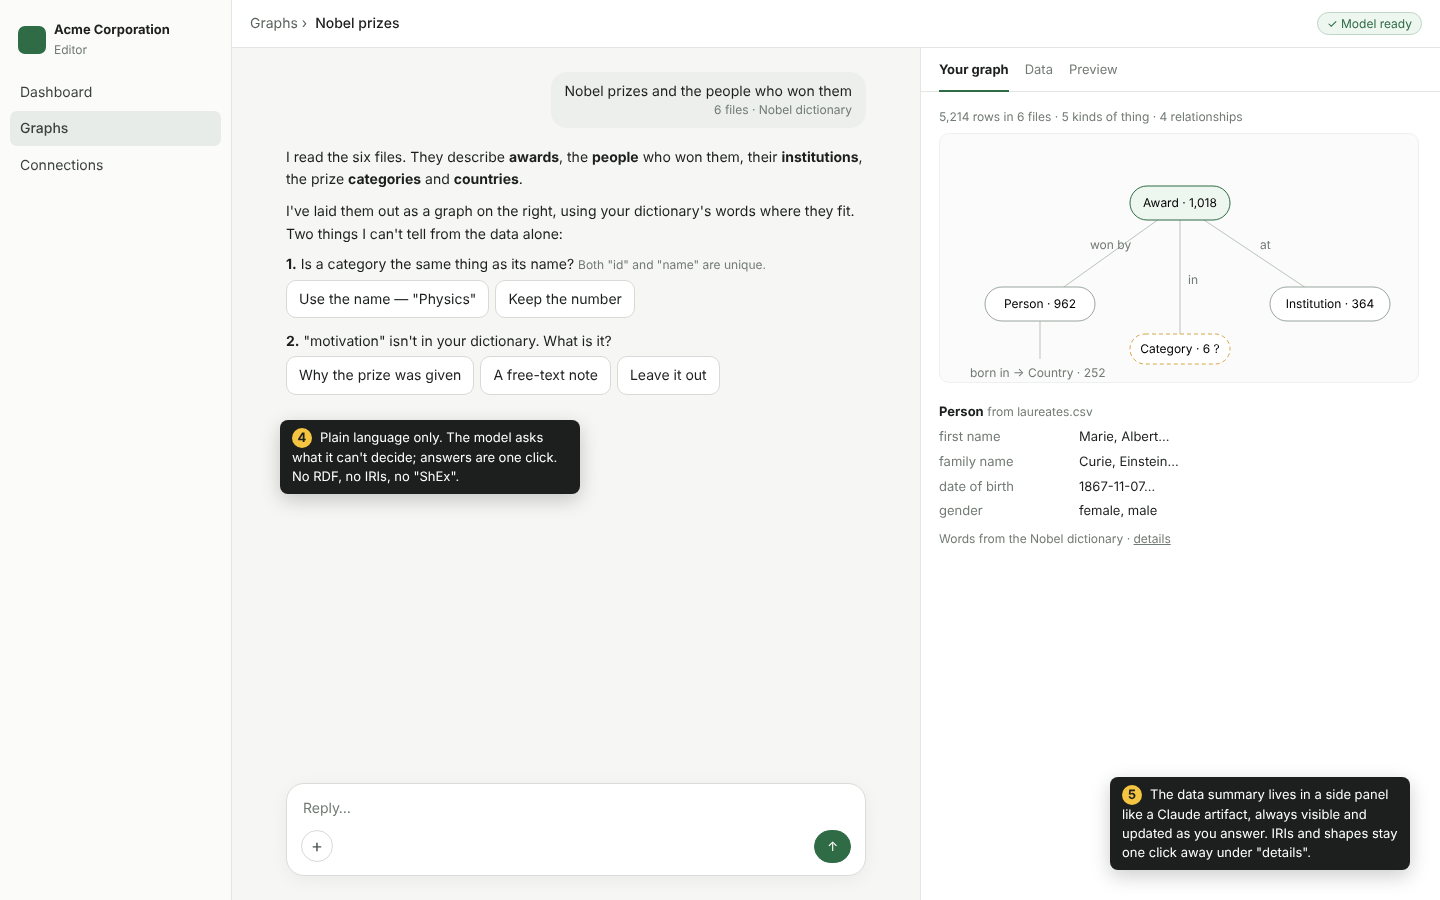
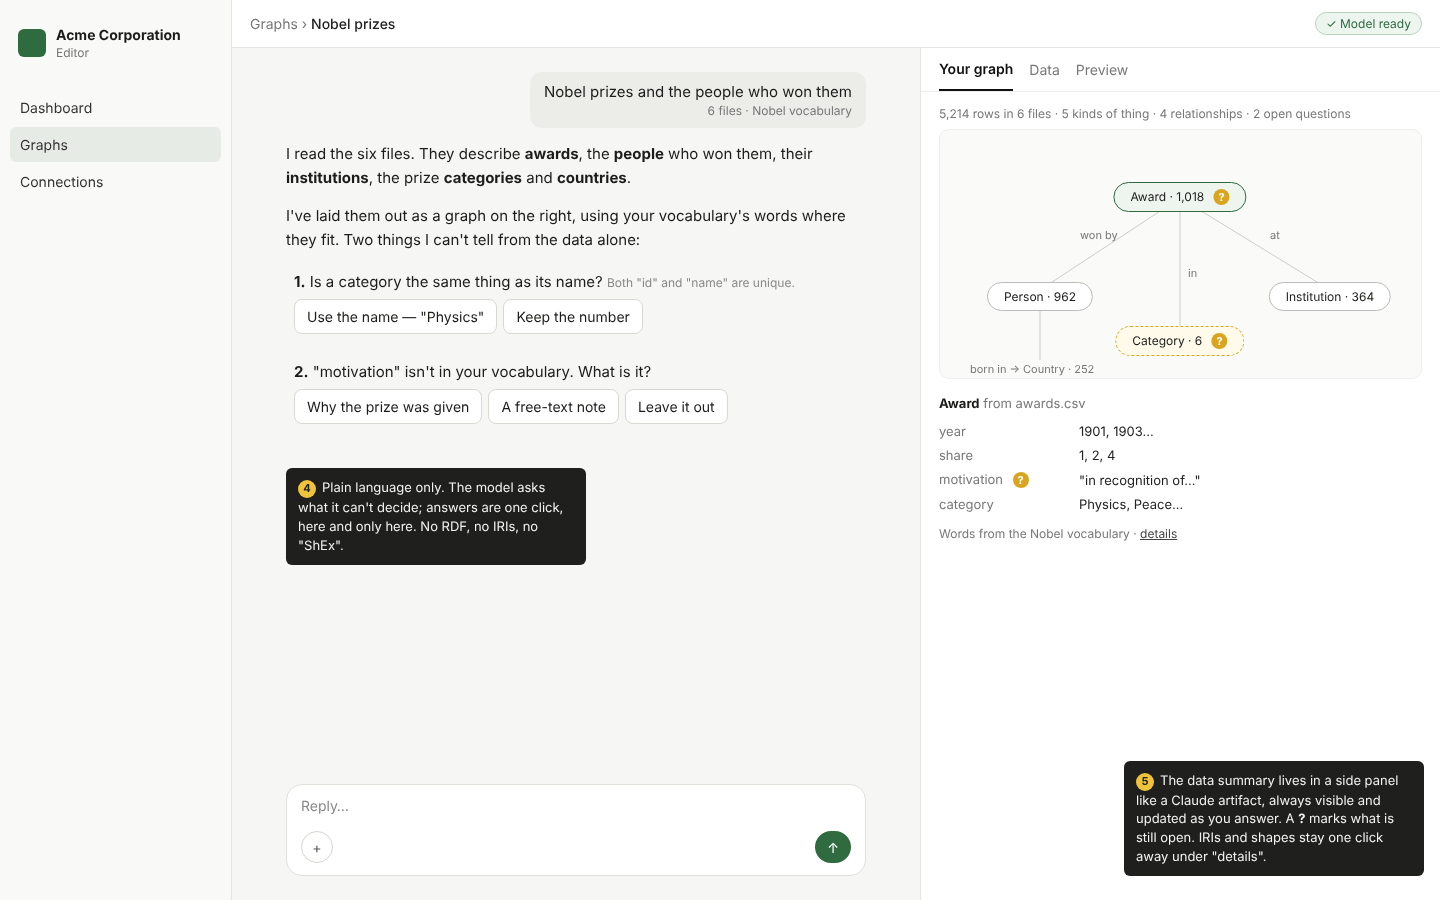
docs(design): a question has one door, the conversation; the graph marks it
Claude-Session: https://claude.ai/code/session_01UehtreJY5kXUJpiKCCdSLU

diff --git a/docs/design/assistant/question-on-graph.html b/docs/design/assistant/question-on-graph.html
@@ -1,0 +1,63 @@
+<!doctype html><html><head><meta charset="utf-8"><style>*{box-sizing:border-box}body{margin:0;width:1440px;height:900px;font-family:Inter,"Helvetica Neue",Arial,sans-serif;background:#f6f6f4;color:#1c1c1a;display:flex;font-size:14px}
+.side{width:232px;background:#f9f9f7;border-right:1px solid #e5e5e1;padding:18px 10px}
+.org{display:flex;gap:10px;align-items:center;padding:8px;margin-bottom:22px}.logo{width:28px;height:28px;border-radius:6px;background:#2f6b3f}
+.org b{display:block}.org span{font-size:12px;color:#777}
+.nav{padding:9px 10px;border-radius:6px;color:#333;margin-bottom:2px}.nav.on{background:#e7ebe6}
+.main{flex:1;display:flex;flex-direction:column;position:relative}
+.top{height:48px;border-bottom:1px solid #e5e5e1;display:flex;align-items:center;justify-content:space-between;padding:0 18px;background:#fff}
+.crumb{color:#777}.crumb b{color:#222;font-weight:500}
+.badge{font-size:12px;color:#2f6b3f;border:1px solid #b9d3bf;background:#edf5ef;border-radius:999px;padding:3px 10px}
+.cols{flex:1;display:flex}
+.chat{flex:1;position:relative;padding:24px 54px}
+.panel{width:520px;background:#fff;border-left:1px solid #e5e5e1;position:relative}
+.you{margin-left:auto;width:fit-content;background:#ecece8;border-radius:12px;padding:10px 14px;text-align:right;font-size:15px}
+.you small{display:block;font-size:12px;color:#777;margin-top:2px}
+p{line-height:1.6;font-size:15px;margin:14px 0}
+.q{margin:10px 0 0;font-size:15px;padding:6px 8px;border-radius:8px}.q.lit{background:#fff7dc;box-shadow:0 0 0 1px #f0d68a}
+.q small{color:#888;font-size:12px}
+.opts{display:flex;gap:6px;margin:8px 0 6px}.opt{border:1px solid #d9d9d4;background:#fff;border-radius:8px;padding:8px 12px;font-size:14px}
+.comp{position:absolute;left:54px;right:54px;bottom:24px;background:#fff;border:1px solid #e1e1dc;border-radius:16px;padding:12px 14px;height:92px}
+.comp .ph{color:#888}.plus{position:absolute;left:14px;bottom:12px;width:32px;height:32px;border:1px solid #d5d5d0;border-radius:50%;display:flex;align-items:center;justify-content:center;color:#555}
+.send{position:absolute;right:14px;bottom:12px;width:36px;height:32px;border-radius:999px;background:#2f6b3f;color:#fff;display:flex;align-items:center;justify-content:center}
+.tabs{display:flex;gap:16px;padding:0 18px;border-bottom:1px solid #eee;height:44px;align-items:center}.tabs span{color:#777;padding:12px 0}.tabs .on{color:#111;font-weight:600;border-bottom:2px solid #111}
+.sum{font-size:12px;color:#777;padding:14px 18px 8px}
+.g{margin:0 18px;height:250px;border:1px solid #eee;border-radius:10px;background:#fafaf8;position:relative}
+.node{position:absolute;border:1px solid #bbb;background:#fff;border-radius:999px;padding:6px 16px;font-size:12px;transform:translateX(-50%);white-space:nowrap}
+.node.focus{border-color:#2f6b3f;background:#eef5ef}.node.open{border:1px dashed #d9a520;background:#fffaea}
+.qm{display:inline-flex;margin-left:6px;width:16px;height:16px;border-radius:50%;background:#d9a520;color:#fff;font-size:11px;font-weight:700;align-items:center;justify-content:center}
+svg{position:absolute;inset:0}.el{position:absolute;font-size:11px;color:#777}
+.fields{padding:16px 18px;font-size:13px}.fields b{font-size:13px}.fields table{margin-top:8px;border-collapse:collapse}.fields td{padding:4px 0;color:#777;width:140px}.fields td+td{color:#222;width:auto}
+.foot{font-size:12px;color:#777;margin-top:10px}.foot u{color:#444}
+.note{position:absolute;width:300px;background:#1f1f1d;color:#f3f3f0;font-size:13px;line-height:1.45;border-radius:6px;padding:10px 12px;z-index:5}
+.n{display:inline-flex;width:18px;height:18px;border-radius:50%;background:#f0c43a;color:#222;font-size:11px;font-weight:700;align-items:center;justify-content:center;margin-right:6px}
+.cursor{position:absolute;font-size:18px}</style></head><body>
+<div class="side"><div class="org"><div class="logo"></div><div><b>Acme Corporation</b><span>Editor</span></div></div>
+<div class="nav">Dashboard</div><div class="nav on">Graphs</div><div class="nav">Connections</div></div>
+<div class="main"><div class="top"><div class="crumb">Graphs › <b>Nobel prizes</b></div><div class="badge">✓ Model ready</div></div>
+<div class="cols"><div class="chat">
+<div class="you">Nobel prizes and the people who won them<small>6 files · Nobel vocabulary</small></div>
+<p>I read the six files. They describe <b>awards</b>, the <b>people</b> who won them, their <b>institutions</b>, the prize <b>categories</b> and <b>countries</b>.</p>
+<p>I've laid them out as a graph on the right, using your vocabulary's words where they fit. Two things I can't tell from the data alone:</p>
+<div class="q lit"><b>1.</b> Is a category the same thing as its name? <small>Both "id" and "name" are unique.</small>
+<div class="opts"><span class="opt">Use the name — "Physics"</span><span class="opt">Keep the number</span></div></div>
+<div class="q"><b>2.</b> "motivation" isn't in your vocabulary. What is it?
+<div class="opts"><span class="opt">Why the prize was given</span><span class="opt">A free-text note</span><span class="opt">Leave it out</span></div></div>
+<div class="comp"><span class="ph">Reply…</span><div class="plus">+</div><div class="send">↑</div></div>
+<div class="note" style="left:54px;top:420px"><span class="n">4</span>The question lights up where it was asked. It is answered here, the one door; the graph only says where it is.</div>
+</div>
+<div class="panel"><div class="tabs"><span class="on">Your graph</span><span>Data</span><span>Preview</span></div>
+<div class="sum">5,214 rows in 6 files · 5 kinds of thing · 4 relationships · 2 open questions</div>
+<div class="g"><svg width="482" height="250"><g stroke="#ccc"><line x1="240" y1="68" x2="100" y2="160"/><line x1="240" y1="68" x2="240" y2="205"/><line x1="240" y1="68" x2="390" y2="160"/><line x1="100" y1="178" x2="100" y2="230"/></g></svg>
+<div class="node focus" style="left:240px;top:52px">Award · 1,018 <span class="qm">?</span></div>
+<div class="node" style="left:100px;top:152px">Person · 962</div>
+<div class="node" style="left:390px;top:152px">Institution · 364</div>
+<div class="node open" style="left:240px;top:196px">Category · 6 <span class="qm">?</span></div>
+<div class="el" style="left:140px;top:98px">won by</div><div class="el" style="left:248px;top:136px">in</div><div class="el" style="left:330px;top:98px">at</div>
+<div class="el" style="left:30px;top:232px">born in → Country · 252</div>
+<div class="cursor" style="left:282px;top:204px">↖</div>
+</div>
+<div class="fields"><b>Award</b> <span style="color:#777">from awards.csv</span>
+<table><tr><td>year</td><td>1901, 1903…</td></tr><tr><td>share</td><td>1, 2, 4</td></tr><tr><td>motivation <span class="qm">?</span></td><td>"in recognition of…"</td></tr><tr><td>category</td><td>Physics, Peace…</td></tr></table>
+<div class="foot">Words from the Nobel vocabulary · <u>details</u></div></div>
+<div class="note" style="right:16px;bottom:24px"><span class="n">5</span>Click a <b>?</b> on the graph: the conversation scrolls to its question. No popover, no second set of options. Answered, the <b>?</b> goes and the graph and preview change.</div>
+</div></div></div></body></html>

diff --git a/docs/design/assistant/panel.html b/docs/design/assistant/panel.html
@@ -1,0 +1,63 @@
+<!doctype html><html><head><meta charset="utf-8"><style>*{box-sizing:border-box}body{margin:0;width:1440px;height:900px;font-family:Inter,"Helvetica Neue",Arial,sans-serif;background:#f6f6f4;color:#1c1c1a;display:flex;font-size:14px}
+.side{width:232px;background:#f9f9f7;border-right:1px solid #e5e5e1;padding:18px 10px}
+.org{display:flex;gap:10px;align-items:center;padding:8px;margin-bottom:22px}.logo{width:28px;height:28px;border-radius:6px;background:#2f6b3f}
+.org b{display:block}.org span{font-size:12px;color:#777}
+.nav{padding:9px 10px;border-radius:6px;color:#333;margin-bottom:2px}.nav.on{background:#e7ebe6}
+.main{flex:1;display:flex;flex-direction:column;position:relative}
+.top{height:48px;border-bottom:1px solid #e5e5e1;display:flex;align-items:center;justify-content:space-between;padding:0 18px;background:#fff}
+.crumb{color:#777}.crumb b{color:#222;font-weight:500}
+.badge{font-size:12px;color:#2f6b3f;border:1px solid #b9d3bf;background:#edf5ef;border-radius:999px;padding:3px 10px}
+.cols{flex:1;display:flex}
+.chat{flex:1;position:relative;padding:24px 54px}
+.panel{width:520px;background:#fff;border-left:1px solid #e5e5e1;position:relative}
+.you{margin-left:auto;width:fit-content;background:#ecece8;border-radius:12px;padding:10px 14px;text-align:right;font-size:15px}
+.you small{display:block;font-size:12px;color:#777;margin-top:2px}
+p{line-height:1.6;font-size:15px;margin:14px 0}
+.q{margin:10px 0 0;font-size:15px;padding:6px 8px;border-radius:8px}.q.lit{background:#fff7dc;box-shadow:0 0 0 1px #f0d68a}
+.q small{color:#888;font-size:12px}
+.opts{display:flex;gap:6px;margin:8px 0 6px}.opt{border:1px solid #d9d9d4;background:#fff;border-radius:8px;padding:8px 12px;font-size:14px}
+.comp{position:absolute;left:54px;right:54px;bottom:24px;background:#fff;border:1px solid #e1e1dc;border-radius:16px;padding:12px 14px;height:92px}
+.comp .ph{color:#888}.plus{position:absolute;left:14px;bottom:12px;width:32px;height:32px;border:1px solid #d5d5d0;border-radius:50%;display:flex;align-items:center;justify-content:center;color:#555}
+.send{position:absolute;right:14px;bottom:12px;width:36px;height:32px;border-radius:999px;background:#2f6b3f;color:#fff;display:flex;align-items:center;justify-content:center}
+.tabs{display:flex;gap:16px;padding:0 18px;border-bottom:1px solid #eee;height:44px;align-items:center}.tabs span{color:#777;padding:12px 0}.tabs .on{color:#111;font-weight:600;border-bottom:2px solid #111}
+.sum{font-size:12px;color:#777;padding:14px 18px 8px}
+.g{margin:0 18px;height:250px;border:1px solid #eee;border-radius:10px;background:#fafaf8;position:relative}
+.node{position:absolute;border:1px solid #bbb;background:#fff;border-radius:999px;padding:6px 16px;font-size:12px;transform:translateX(-50%);white-space:nowrap}
+.node.focus{border-color:#2f6b3f;background:#eef5ef}.node.open{border:1px dashed #d9a520;background:#fffaea}
+.qm{display:inline-flex;margin-left:6px;width:16px;height:16px;border-radius:50%;background:#d9a520;color:#fff;font-size:11px;font-weight:700;align-items:center;justify-content:center}
+svg{position:absolute;inset:0}.el{position:absolute;font-size:11px;color:#777}
+.fields{padding:16px 18px;font-size:13px}.fields b{font-size:13px}.fields table{margin-top:8px;border-collapse:collapse}.fields td{padding:4px 0;color:#777;width:140px}.fields td+td{color:#222;width:auto}
+.foot{font-size:12px;color:#777;margin-top:10px}.foot u{color:#444}
+.note{position:absolute;width:300px;background:#1f1f1d;color:#f3f3f0;font-size:13px;line-height:1.45;border-radius:6px;padding:10px 12px;z-index:5}
+.n{display:inline-flex;width:18px;height:18px;border-radius:50%;background:#f0c43a;color:#222;font-size:11px;font-weight:700;align-items:center;justify-content:center;margin-right:6px}
+.cursor{position:absolute;font-size:18px}</style></head><body>
+<div class="side"><div class="org"><div class="logo"></div><div><b>Acme Corporation</b><span>Editor</span></div></div>
+<div class="nav">Dashboard</div><div class="nav on">Graphs</div><div class="nav">Connections</div></div>
+<div class="main"><div class="top"><div class="crumb">Graphs › <b>Nobel prizes</b></div><div class="badge">✓ Model ready</div></div>
+<div class="cols"><div class="chat">
+<div class="you">Nobel prizes and the people who won them<small>6 files · Nobel vocabulary</small></div>
+<p>I read the six files. They describe <b>awards</b>, the <b>people</b> who won them, their <b>institutions</b>, the prize <b>categories</b> and <b>countries</b>.</p>
+<p>I've laid them out as a graph on the right, using your vocabulary's words where they fit. Two things I can't tell from the data alone:</p>
+<div class="q "><b>1.</b> Is a category the same thing as its name? <small>Both "id" and "name" are unique.</small>
+<div class="opts"><span class="opt">Use the name — "Physics"</span><span class="opt">Keep the number</span></div></div>
+<div class="q"><b>2.</b> "motivation" isn't in your vocabulary. What is it?
+<div class="opts"><span class="opt">Why the prize was given</span><span class="opt">A free-text note</span><span class="opt">Leave it out</span></div></div>
+<div class="comp"><span class="ph">Reply…</span><div class="plus">+</div><div class="send">↑</div></div>
+<div class="note" style="left:54px;top:420px"><span class="n">4</span>Plain language only. The model asks what it can't decide; answers are one click, here and only here. No RDF, no IRIs, no "ShEx".</div>
+</div>
+<div class="panel"><div class="tabs"><span class="on">Your graph</span><span>Data</span><span>Preview</span></div>
+<div class="sum">5,214 rows in 6 files · 5 kinds of thing · 4 relationships · 2 open questions</div>
+<div class="g"><svg width="482" height="250"><g stroke="#ccc"><line x1="240" y1="68" x2="100" y2="160"/><line x1="240" y1="68" x2="240" y2="205"/><line x1="240" y1="68" x2="390" y2="160"/><line x1="100" y1="178" x2="100" y2="230"/></g></svg>
+<div class="node focus" style="left:240px;top:52px">Award · 1,018 <span class="qm">?</span></div>
+<div class="node" style="left:100px;top:152px">Person · 962</div>
+<div class="node" style="left:390px;top:152px">Institution · 364</div>
+<div class="node open" style="left:240px;top:196px">Category · 6 <span class="qm">?</span></div>
+<div class="el" style="left:140px;top:98px">won by</div><div class="el" style="left:248px;top:136px">in</div><div class="el" style="left:330px;top:98px">at</div>
+<div class="el" style="left:30px;top:232px">born in → Country · 252</div>
+
+</div>
+<div class="fields"><b>Award</b> <span style="color:#777">from awards.csv</span>
+<table><tr><td>year</td><td>1901, 1903…</td></tr><tr><td>share</td><td>1, 2, 4</td></tr><tr><td>motivation <span class="qm">?</span></td><td>"in recognition of…"</td></tr><tr><td>category</td><td>Physics, Peace…</td></tr></table>
+<div class="foot">Words from the Nobel vocabulary · <u>details</u></div></div>
+<div class="note" style="right:16px;bottom:24px"><span class="n">5</span>The data summary lives in a side panel like a Claude artifact, always visible and updated as you answer. A <b>?</b> marks what is still open. IRIs and shapes stay one click away under "details".</div>
+</div></div></div></body></html>

diff --git a/docs/design/assistant.md b/docs/design/assistant.md
@@ -5,7 +5,7 @@ intent; the guided chat and its three Tasks, `model`, `mapping` and `requirement
 profile (below); the conversation kept, the preview run in memory, and the build. **Decided
 2026-10-20, not built:** [a conversation beside its graph](#a-conversation-beside-its-graph) — one **+**
 and file cards, a dataset's vocabulary as a file beside it, a panel with *Your graph*, *Data* and
-*Preview*, questions answered in either place, a shell of its own, the schema and the program drawn on one diagram with React Flow and ELK — and [`model`'s structure taken from the profile](#model--structure-from-the-profile-names-from-the-model).
+*Preview*, questions marked on the graph and answered in the conversation, a shell of its own, the schema and the program drawn on one diagram with React Flow and ELK — and [`model`'s structure taken from the profile](#model--structure-from-the-profile-names-from-the-model).
 They replace the single thread of 2026-10-14 and its checkpoints, each where it is described. The pattern this rests on — a *Task*: a small model in the browser fills a small artefact under a JSON Schema, a deterministic oracle checks it, a bounded loop repairs
 it or asks the person — and its API, its model and its decisions are kanzo-ui's, on
 [Tasks](https://kanzo-tech.github.io/ui/docs/design/tasks). fossil's half — `fossil-profile` in place
@@ -167,15 +167,24 @@ It is `@kanzo-tech/ai`'s part to be, as Claude's artifact pane is a part of Clau
 the panel is a sheet over the conversation, opened from a bar that says *Your graph · 5 kinds · 1 open
 question*.
 
-### Questions in two places, one state
+### Questions in the conversation, marked on the graph
 
-![A question answered on the graph, recorded in the conversation](assistant/question-on-graph.png)
+![A question marked on the graph, answered in the conversation](assistant/question-on-graph.png)
 
 **No question blocks.** Each has a default the graph and the preview already use, and an answer only
-changes them. A question is asked **in the conversation**, as one-click options under the message that
-raised it, and **on the graph**, where clicking the **?** opens the same question beside the thing it is
-about. There is one state: answered in either place, the other shows it — in the conversation as
-*→ Use the name — answered on the graph · undo*, in place, not as a new reply.
+changes them. **A question has one door: the conversation**, as one-click options under the message
+that raised it. On the graph, the thing a question is about carries a **?**, and clicking it scrolls
+the conversation to that question and lights it — it opens no popover and offers no options of its own.
+Answered, the **?** goes, and the graph and the preview change.
+
+Decided 2026-10-20 over a question asked in both places with one state between them, as the first
+draft of this page had it: the same options in a popover on the graph, an answer there said in the
+conversation as *→ Use the name — answered on the graph · undo*. It was two doors to one decision,
+which is what this page already refused for an assumption (*one door to its options*, above), and it
+needed the two kept in step. The graph says *where* a question is; the conversation is where it is
+answered and where it is recorded. *What would reverse it:* people in a user test who click the **?**
+and expect to answer there — then the popover comes back, and the conversation's options become the
+record of that answer rather than a second place to give it.
 
 An edit made on the panel — a kind of thing renamed, a field left out, two kinds merged — is said in
 the conversation as the person's own short message (*Renamed Laureate to Person*), so the model reads
@@ -215,7 +224,7 @@ folded to its icons.
 ### One diagram, two views
 
 *Your graph* draws kinds of thing and their links — five to thirty boxes with labelled edges, a **?**
-that opens a popover, a click that renames — never the data's vertices. That is not the job of
+that leads to its question, a click that renames — never the data's vertices. That is not the job of
 `@kanzo-tech/graph`, whose cosmos.gl canvas draws thousands to millions of points on the GPU and is
 weakest where this view lives: labels, anchored popovers, keyboard focus. And it is not the only
 diagram wanted: **a Fossil program is a graph too** — files and their columns, the rules that map them,
@@ -316,8 +325,8 @@ conversation stays open, and a graph's record is that state rather than the conv
 and the `Command` and `TreeView` the **+**'s connection list is made of — all but the first two exist.
 
 **keasy's**: the **+** and its file cards over the connections' listings; the recognising of a vocabulary
-file and bringing it with its connection's files; the panel's three tabs and what each reads; the one state of the
-questions, answered in either place; the edits on the panel said as the person's messages; closing
+file and bringing it with its connection's files; the panel's three tabs and what each reads; a question's **?** on
+the graph leading to it in the conversation; the edits on the panel said as the person's messages; closing
 the conversation on build.
 
 Why a conversation rather than screens: it is **one presentation with Ask**, which is where the person
@@ -384,8 +393,8 @@ Task gave up with the oracles' words in a problem titled *The model call failed*
   keys that no edge lands on (`key/<source>`, safe default); a source that is a bridge *or* a thing
   counted on its own (`count/<edge>`, blocks — each counts differently); a column with no term in the
   vocabulary (*"motivation" isn't in your vocabulary. What is it?* — keep it as is, say what it is, or
-  leave it out; safe default: keep it). Each is asked in plain words, in the conversation and on the
-  graph ([above](#questions-in-two-places-one-state)).
+  leave it out; safe default: keep it). Each is asked in plain words, in the conversation, and marked
+  on the graph ([above](#questions-in-the-conversation-marked-on-the-graph)).
 - **A failure says what it is.** The Task's attempts spent is a problem of its own, not `llm/failed`:
   what was tried, and why it did not hold, under a title that does not blame the model call.
 - IRIs are unchanged: keasy's, computed by fossil (`vocabularyOf`, `subjectOf`), never the model's; a
@@ -753,5 +762,5 @@ model double answering at a model's pace, and is rewritten with each step.
 
 **The order of what was decided on 2026-10-20**, each useful alone: (1) `model`'s structure from the
 profile and the honest failure — it mends what the owner hit, with no new layout; (2) the shell and
-the panel with *Data* and *Preview*, the thread's results moving into it; (3) kanzo-ui's `graph/diagram` with its *Schema* view, *Your graph* on it, and questions on the graph; (4) the **+** and file cards; (5) vocabulary files recognised by content, the Vocabulary kind of connection removed,
+the panel with *Data* and *Preview*, the thread's results moving into it; (3) kanzo-ui's `graph/diagram` with its *Schema* view, *Your graph* on it, and each question's **?** on it; (4) the **+** and file cards; (5) vocabulary files recognised by content, the Vocabulary kind of connection removed,
 and terms from the vocabulary in `model`; (6) the *Program* view in the studio, linked to the editor, once fossil gives each rule's span. The `nobel-assistant` demo follows each step.
